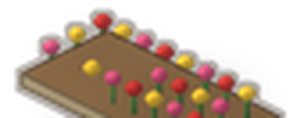
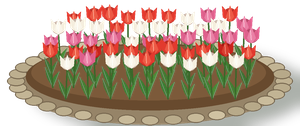
Tulips around the city
- New tulip art (tools/art/tulips.py): real cup-shaped tulips with leaves
  in a stone-edged bed, and a wild tulip clump in grass
- City meadow gains tulip gardens (three beds with clumps and a cypress),
  tulip clumps around an olive tree, and ~28 scattered clumps; beds are
  drawn larger so they read at the normal zoom

Claude-Session: https://claude.ai/code/session_01Majuqaso9wCr5SzvFxP8CZ

diff --git a/payitaht/lib/game/city-map/terrain-builder.ts b/payitaht/lib/game/city-map/terrain-builder.ts
@@ -30,6 +30,8 @@ export const DECOR_TILES = [
   'olive-tree', 'bush', 'flower', 'rock', 'cypress', 'cypress-b',
   // 0.26: çeşitlilik — fıstık çamı, çınar, kavak, meyve ağacı ve kır hayatı.
   'pine', 'plane-tree', 'poplar', 'fruit-tree', 'haystack', 'well', 'woodpile', 'beehives', 'tulip-bed',
+  // 0.29: Osmanlı'nın lalesi — çimende kendiliğinden bitmiş lale öbekleri.
+  'tulip-clump',
 ] as const
 /**
  * ADA MADENİ yeri: kuzey kulesinin batısında, surların hemen dışında.
@@ -1792,11 +1794,19 @@ export function buildCityTerrain(scene: Phaser.Scene, divanLevel = 1, occupiedSl
       // Kuyu başı.
       (x, y) => { put('d_well', x, y, TILE.w * 0.42); put('d_fruit-tree', x + TILE.w * 0.45, y - TILE.h * 0.15, TILE.w * 0.46); put('d_flower', x - TILE.w * 0.35, y + TILE.h * 0.2, TILE.w * 0.26) },
       // Lale tarhı ve fıstık çamı.
-      (x, y) => { put('d_tulip-bed', x, y, TILE.w * 0.6); put('d_pine', x + TILE.w * 0.55, y - TILE.h * 0.25, TILE.w * 0.8) },
+      (x, y) => { put('d_tulip-bed', x, y, TILE.w * 0.9); put('d_pine', x + TILE.w * 0.55, y - TILE.h * 0.25, TILE.w * 0.8) },
+      // Lale bahçesi: üç tarh ve kenarında öbekler (Lale Devri bahçeleri).
+      (x, y) => {
+        put('d_tulip-bed', x, y, TILE.w * 0.95); put('d_tulip-bed', x + TILE.w * 0.9, y + TILE.h * 0.45, TILE.w * 0.85)
+        put('d_tulip-bed', x - TILE.w * 0.88, y + TILE.h * 0.42, TILE.w * 0.85); put('d_tulip-clump', x + TILE.w * 0.1, y + TILE.h * 0.85, TILE.w * 0.5)
+        put('d_cypress', x - TILE.w * 0.2, y - TILE.h * 0.35, TILE.w * 0.22)
+      },
+      // Çayırda lale öbekleri ve bir zeytin.
+      (x, y) => { for (const [dx, dy] of [[0, 0], [0.5, 0.28], [-0.46, 0.32], [0.06, 0.6]]) put('d_tulip-clump', x + TILE.w * dx, y + TILE.h * dy, TILE.w * 0.48); put('d_olive-tree', x + TILE.w * 0.7, y - TILE.h * 0.25, TILE.w * 0.6) },
     ]
     const hallS = slotById(HALL_SLOT_ID)!.screen
     let tries = 0
-    while (spots.length < 18 && tries++ < 1000) {
+    while (spots.length < 22 && tries++ < 1200) {
       const x = wr.x + wr.w * (0.1 + lifeRnd() * 0.8)
       const y = wr.y + (shoreY(x) - wr.y) * (0.12 + lifeRnd() * 0.8)
       if (Math.hypot(x - hallS.x, (y - hallS.y) * 1.8) < TILE.w * 2.2) continue
@@ -1813,6 +1823,13 @@ export function buildCityTerrain(scene: Phaser.Scene, divanLevel = 1, occupiedSl
       const key = singles[Math.floor(lifeRnd() * singles.length)]
       const w = key === 'd_plane-tree' ? 0.78 : key === 'd_pine' ? 0.74 : key === 'd_olive-tree' ? 0.66 : key === 'd_poplar' ? 0.28 : 0.46
       if (put(key, x, y, TILE.w * w * (0.85 + lifeRnd() * 0.3))) { spots.push({ x, y }); placed++ }
+    }
+    // Çayıra serpilmiş tek tük lale öbekleri.
+    for (let i = 0, placed = 0; i < 500 && placed < 28; i++) {
+      const x = wr.x + wr.w * (0.06 + lifeRnd() * 0.88)
+      const y = wr.y + (shoreY(x) - wr.y) * (0.1 + lifeRnd() * 0.84)
+      if (!far(x, y, TILE.w * 0.7)) continue
+      if (put('d_tulip-clump', x, y, TILE.w * (0.42 + lifeRnd() * 0.14))) { spots.push({ x, y }); placed++ }
     }
     // Tarla kenarları: saman yığını, arı kovanı, odun.
     for (const [i, f] of cityFields().entries()) {

diff --git a/payitaht/tools/art/tulips.py b/payitaht/tools/art/tulips.py
@@ -1,0 +1,140 @@
+"""
+LALE ÇİZİMLERİ — şehir çevresi için iki dekor:
+
+    python3 tools/art/tulips.py
+
+  decor/tulip-bed.png   taş bordürlü toprak tarhta sıra sıra laleler
+  decor/tulip-clump.png çimende kendiliğinden bitmiş lale öbeği
+
+Her lale: iki kıvrık yaprak, sap ve üç taç yapraklı kadeh (gölgeli iç,
+parlak kenar). 4 kat büyük çizilir, sonra küçültülür (yumuşak kenar).
+Taban noktası yatayda ortada, yüksekliğin %92'sinde (terrain-builder 0.5, 0.92).
+"""
+import math
+import os
+import random
+
+from PIL import Image, ImageDraw, ImageFilter
+
+ROOT = os.path.join(os.path.dirname(os.path.abspath(__file__)), '..', '..')
+DECOR = os.path.join(ROOT, 'public', 'images', 'game', 'decor')
+K = 4  # süper örnekleme
+
+COLORS = [
+    ((200, 35, 28), (236, 92, 70)),    # al
+    ((226, 58, 46), (250, 128, 96)),   # gelincik kırmızısı
+    ((236, 186, 40), (252, 226, 120)), # sarı
+    ((245, 238, 222), (255, 255, 250)),# beyaz
+    ((166, 30, 80), (214, 86, 132)),   # erguvan
+    ((222, 96, 140), (248, 168, 196)), # pembe
+]
+
+
+def mix(a, b, t):
+    return tuple(int(a[i] + (b[i] - a[i]) * t) for i in range(3))
+
+
+def leaf(d, x, y, h, side, col):
+    """Yere yakın, uca doğru kıvrılan geniş lale yaprağı."""
+    pts = []
+    for i in range(13):
+        t = i / 12
+        w = math.sin(t * math.pi) * h * 0.16
+        cx = x + side * (t ** 1.6) * h * 0.38
+        pts.append((cx - w, y - t * h))
+    for i in range(12, -1, -1):
+        t = i / 12
+        w = math.sin(t * math.pi) * h * 0.16
+        cx = x + side * (t ** 1.6) * h * 0.38
+        pts.append((cx + w * 0.6, y - t * h))
+    d.polygon(pts, fill=col + (255,))
+    d.line([(x, y), (x + side * h * 0.38, y - h)], fill=mix(col, (20, 50, 20), 0.35) + (180,), width=max(1, K))
+
+
+def tulip(d, x, y, h, colors, rnd):
+    base, light = colors
+    lean = (rnd.random() - 0.5) * h * 0.16
+    green = (70 + rnd.randint(-8, 8), 128 + rnd.randint(-10, 10), 52)
+    leaf(d, x, y, h * 0.62, -1, mix(green, (40, 90, 36), 0.25))
+    leaf(d, x, y, h * 0.5, 1, green)
+    top = (x + lean, y - h)
+    d.line([(x, y), top], fill=(58, 104, 42, 255), width=int(K * 1.6))
+    cw, ch = h * 0.22, h * 0.3
+    cx, cy = top
+    # Arka taç yaprağı (koyu), iki yan yaprak, ön yaprak (açık): kadeh biçimi.
+    d.ellipse([cx - cw * 0.9, cy - ch * 1.05, cx + cw * 0.9, cy + ch * 0.25], fill=mix(base, (60, 0, 0), 0.25) + (255,))
+    for s in (-1, 1):
+        d.polygon([(cx + s * cw * 0.95, cy - ch * 0.15), (cx + s * cw * 1.05, cy - ch * 1.25), (cx + s * cw * 0.15, cy - ch * 0.55), (cx, cy + ch * 0.28)], fill=base + (255,))
+    d.polygon([(cx - cw * 0.55, cy - ch * 0.2), (cx, cy - ch * 1.3), (cx + cw * 0.55, cy - ch * 0.2), (cx, cy + ch * 0.3)], fill=mix(base, light, 0.45) + (255,))
+    d.line([(cx - cw * 0.12, cy - ch * 0.9), (cx - cw * 0.05, cy)], fill=light + (200,), width=max(1, K))
+
+
+def tulip_bed(path, seed=7):
+    W, H = 300 * K, 150 * K
+    img = Image.new('RGBA', (W, H), (0, 0, 0, 0))
+    d = ImageDraw.Draw(img)
+    rnd = random.Random(seed)
+    cx, cy, rx, ry = W / 2, H * 0.68, W * 0.46, H * 0.27
+    # Gölge, taş bordür, toprak tepeciği.
+    sh = Image.new('RGBA', (W, H), (0, 0, 0, 0))
+    ImageDraw.Draw(sh).ellipse([cx - rx + 20 * K, cy - ry + 10 * K, cx + rx + 20 * K, cy + ry + 14 * K], fill=(20, 34, 16, 90))
+    img.alpha_composite(sh.filter(ImageFilter.GaussianBlur(6 * K)))
+    d.ellipse([cx - rx, cy - ry, cx + rx, cy + ry + 6 * K], fill=(150, 132, 104, 255))
+    for i in range(36):
+        a = 2 * math.pi * i / 36
+        sx, sy = cx + math.cos(a) * rx * 0.97, cy + math.sin(a) * ry * 0.97 + 3 * K
+        g = rnd.randint(-14, 14)
+        d.ellipse([sx - 9 * K, sy - 5 * K, sx + 9 * K, sy + 5 * K], fill=(196 + g, 182 + g, 150 + g, 255), outline=(120, 104, 80, 255), width=K)
+    d.ellipse([cx - rx * 0.9, cy - ry * 0.85, cx + rx * 0.9, cy + ry * 0.8], fill=(104, 74, 46, 255))
+    d.ellipse([cx - rx * 0.86, cy - ry * 0.82, cx + rx * 0.84, cy + ry * 0.55], fill=(124, 90, 58, 255))
+    # Arkadan öne sıralar: renkler sıra sıra (Osmanlı bahçesi düzeni).
+    rows = 5
+    for r in range(rows):
+        t = r / (rows - 1)
+        y = cy - ry * 0.62 + t * ry * 1.15
+        half = rx * 0.78 * math.sqrt(max(0.15, 1 - ((y - cy) / (ry * 1.05)) ** 2))
+        n = max(3, int(half * 2 / (19 * K)))
+        col = COLORS[(r * 2 + seed) % len(COLORS)]
+        for i in range(n):
+            x = cx - half + (i + 0.5) * half * 2 / n + rnd.uniform(-3, 3) * K
+            tulip(d, x, y, (33 + rnd.randint(-3, 3)) * K, col if rnd.random() > 0.15 else COLORS[rnd.randrange(len(COLORS))], rnd)
+    return finish(img, path, 300)
+
+
+def tulip_clump(path, seed=11):
+    W, H = 160 * K, 120 * K
+    img = Image.new('RGBA', (W, H), (0, 0, 0, 0))
+    d = ImageDraw.Draw(img)
+    rnd = random.Random(seed)
+    cx, cy = W / 2, H * 0.86
+    sh = Image.new('RGBA', (W, H), (0, 0, 0, 0))
+    ImageDraw.Draw(sh).ellipse([cx - 58 * K, cy - 12 * K, cx + 66 * K, cy + 12 * K], fill=(20, 34, 16, 80))
+    img.alpha_composite(sh.filter(ImageFilter.GaussianBlur(5 * K)))
+    # Çimen tutamı.
+    for _ in range(70):
+        x = cx + rnd.uniform(-55, 55) * K
+        y = cy + rnd.uniform(-8, 6) * K
+        d.line([(x, y), (x + rnd.uniform(-5, 5) * K, y - rnd.uniform(8, 16) * K)], fill=(92 + rnd.randint(-15, 15), 140 + rnd.randint(-15, 15), 62, 255), width=int(1.5 * K))
+    spots = sorted([(cx + rnd.uniform(-44, 44) * K, cy + rnd.uniform(-10, 4) * K) for _ in range(9)], key=lambda p: p[1])
+    pal = [COLORS[rnd.randrange(len(COLORS))], COLORS[rnd.randrange(len(COLORS))]]
+    for i, (x, y) in enumerate(spots):
+        tulip(d, x, y, (46 + rnd.randint(-8, 8)) * K, pal[i % 2], rnd)
+    return finish(img, path, 160)
+
+
+def finish(img, path, width):
+    bbox = img.getbbox()
+    W, H = img.size
+    # Yatayda ortalı kalsın: kırpma simetrik.
+    half = max(W / 2 - bbox[0], bbox[2] - W / 2)
+    top = bbox[1]
+    img = img.crop((int(W / 2 - half), max(0, top - 4 * K), int(W / 2 + half), H))
+    h = round(img.height * width / img.width)
+    img = img.resize((width, h), Image.LANCZOS)
+    img.save(path, optimize=True)
+    print('yazıldı', os.path.relpath(path, ROOT), img.size)
+
+
+if __name__ == '__main__':
+    tulip_bed(os.path.join(DECOR, 'tulip-bed.png'))
+    tulip_clump(os.path.join(DECOR, 'tulip-clump.png'))
